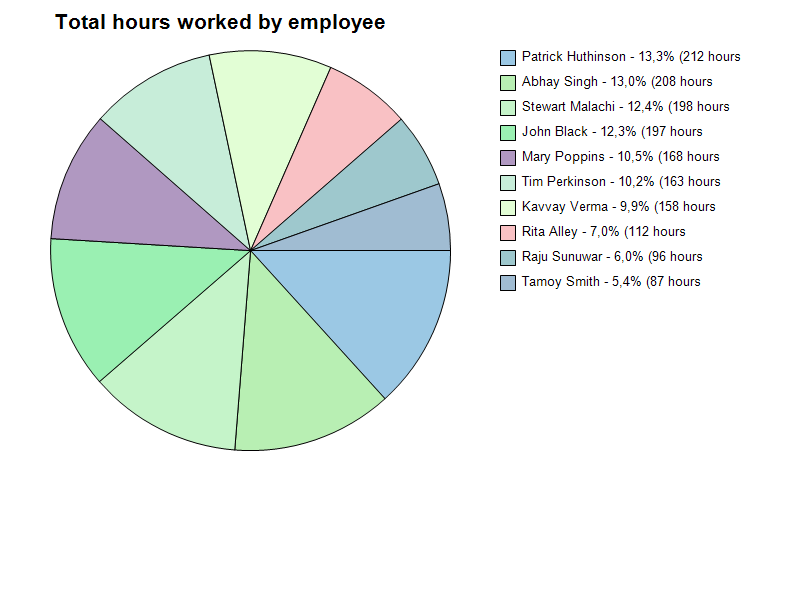
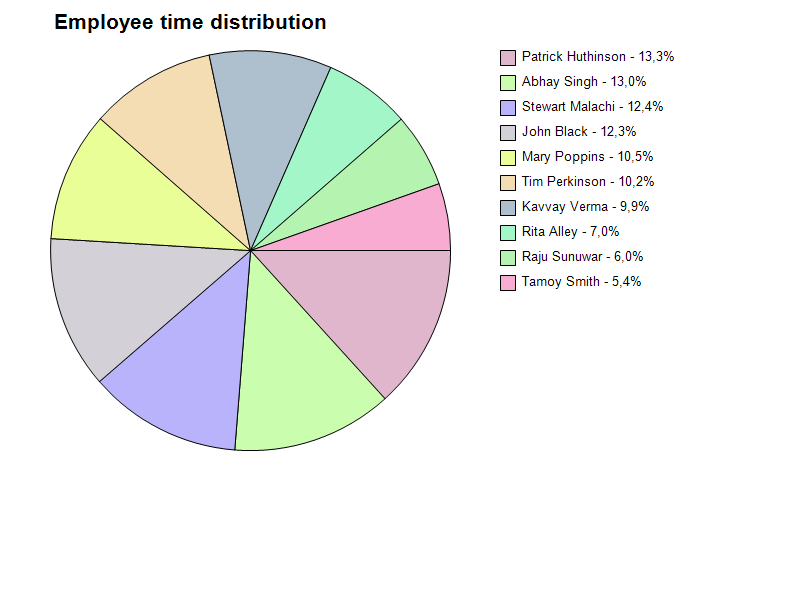
Slight fixes

diff --git a/AspApp/Controllers/HomeController.cs b/AspApp/Controllers/HomeController.cs
@@ -88,7 +88,7 @@ namespace AspApp.Controllers
             graphics.SmoothingMode = System.Drawing.Drawing2D.SmoothingMode.AntiAlias;
 
             var titleFont = new Font("Arial", 16, FontStyle.Bold);
-            graphics.DrawString("Total hours worked by employee", titleFont, Brushes.Black, 50, 10);
+            graphics.DrawString("Employee time distribution", titleFont, Brushes.Black, 50, 10);
 
             var totalHours = employees.Sum(e => e.TotalHours);
             var startAngle = 0f;
@@ -125,7 +125,7 @@ namespace AspApp.Controllers
             {
                 var employee = employees[i];
                 var percent = (employee.TotalHours / totalHours * 100).ToString("0.0");
-                var text = $"{employee.EmployeeName} - {percent}% ({employee.TotalHours:0} hours";
+                var text = $"{employee.EmployeeName} - {percent}%";
 
                 using var colorBrush = new SolidBrush(colors[i]);
                 graphics.FillRectangle(colorBrush, 500, legendY, 15, 15);
